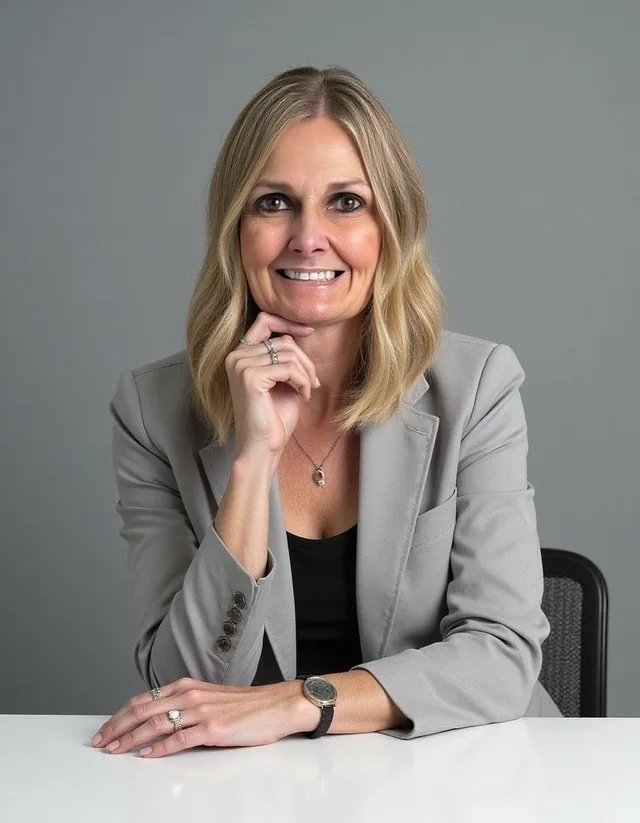
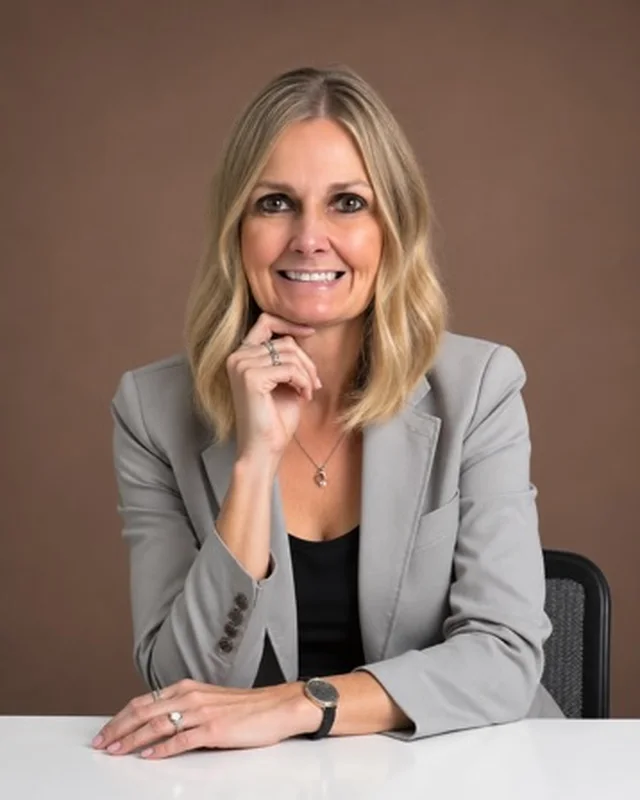
Update Hannah and Kimberly photos and titles
Claude-Session: https://claude.ai/code/session_011LuE82WNk6yTbxqzfH773F

diff --git a/index.html b/index.html
@@ -131,12 +131,12 @@
             <figcaption><strong>Marjae Smith</strong><span>Chief Executive Officer</span></figcaption>
           </figure>
           <figure class="ts-slide" aria-hidden="true">
-            <div class="ts-photo"><span>HA</span><img src="assets/team/hannah-aasen.webp" alt="Hannah Aasen, Director of Partnerships" width="640" height="800" loading="eager" onerror="this.remove()"></div>
-            <figcaption><strong>Hannah Aasen</strong><span>Director of Partnerships</span></figcaption>
+            <div class="ts-photo"><span>HA</span><img src="assets/team/hannah-aasen.webp" alt="Hannah Aasen, Director of Partnerships &amp; Consulting" width="640" height="800" loading="eager" onerror="this.remove()"></div>
+            <figcaption><strong>Hannah Aasen</strong><span>Director of Partnerships &amp; Consulting</span></figcaption>
           </figure>
           <figure class="ts-slide" aria-hidden="true">
-            <div class="ts-photo"><span>KS</span><img src="assets/team/kimberly-shaffer.webp" alt="Kimberly Shaffer, Partnership Coordinator" width="640" height="800" loading="lazy" onerror="this.remove()"></div>
-            <figcaption><strong>Kimberly Shaffer</strong><span>Partnership Coordinator</span></figcaption>
+            <div class="ts-photo"><span>KS</span><img src="assets/team/kimberly-shaffer.webp" alt="Kimberly Shaffer, Vice President of Operations" width="640" height="800" loading="lazy" onerror="this.remove()"></div>
+            <figcaption><strong>Kimberly Shaffer</strong><span>Vice President of Operations</span></figcaption>
           </figure>
           <figure class="ts-slide" aria-hidden="true">
             <div class="ts-photo"><span>LW</span><img src="assets/team/lacey-woodworth.webp" alt="Lacey Woodworth, Lead Consultant" width="640" height="800" loading="lazy" onerror="this.remove()"></div>
